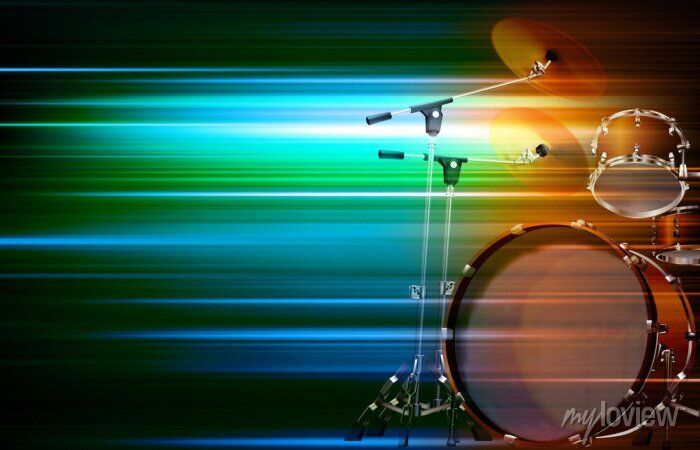
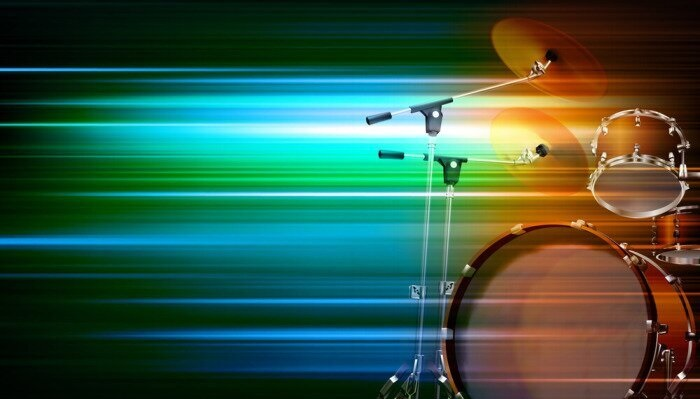
background

diff --git a/styles.css b/styles.css
@@ -1,22 +1,30 @@
 body {
   text-align: center;
-  background-image: url("./images/bg2.jpg");
+  background-image: url("./images/bg1.jpg");
   background-position: center;
   background-size: cover;
+  
 }
 
 h1 {
   font-size: 5rem;
   color: #DBEDF3;
   font-family: "Arvo", cursive;
-  text-shadow: 3px 0 #DA0463;
-
+  text-shadow: 5px 0 #DA0463;
+  text-align: right;
+  
+  
+  
 }
 
-h3 {
+p {
   font-size: 2rem;
   color: #DBEDF3;
   font-family: "Arvo", cursive;
+  text-shadow: 5px 0 #DA0463;
+  text-align: left;
+  margin-right: 3rem;
+  
 }
 
 footer {
@@ -89,13 +97,28 @@ footer {
   background-color: white;
 }
 
-.w:hover, .a:hover, .s:hover, .d:hover, .j:hover, .k:hover, .l:hover{
+.w:hover, .a:hover{
   color: aqua;
   background-position: 0cqmax;
   
 }
 
+.s:hover, .d:hover, .j:hover {
+  color:rgb(29, 247, 29);
+  background-position: 0cqmax;
+}
+
+.k:hover, .l:hover {
+  color:rgb(255, 94, 0);
+  background-position: 0cqmax;
+}
+
 .w, .a, .s, .d, .j, .k, .l{
   cursor: pointer;
+}
+
+footer{
+  background-color: black;
+  opacity: 0.5;
 }
 

diff --git a/index.html b/index.html
@@ -11,7 +11,11 @@
 <body>
 
   <h1 id="title">Drum 🤘 Kit</h1>
-  <h3>Aperte um botão para ouvir o instrumento correspondente 🎶</h3>
+
+  <div class="container-text">
+    <p>🎶 Aperte um botão 🎶</p>
+  </div>
+  
   <div class="set">
     <button class="w drum">w</button>
     <button class="a drum">a</button>
@@ -21,7 +25,6 @@
     <button class="k drum">k</button>
     <button class="l drum">l</button>
   </div>
-
 
   <footer>
     By Alan Angeli
